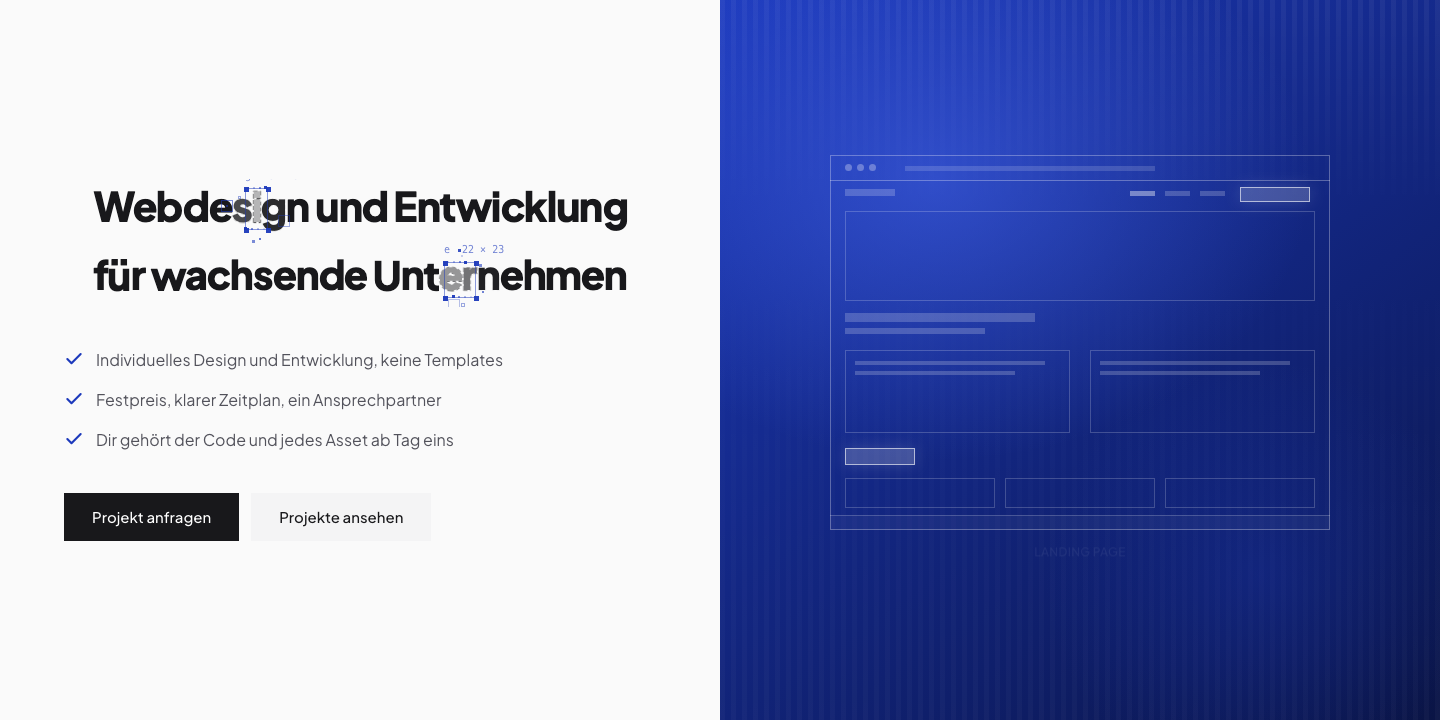
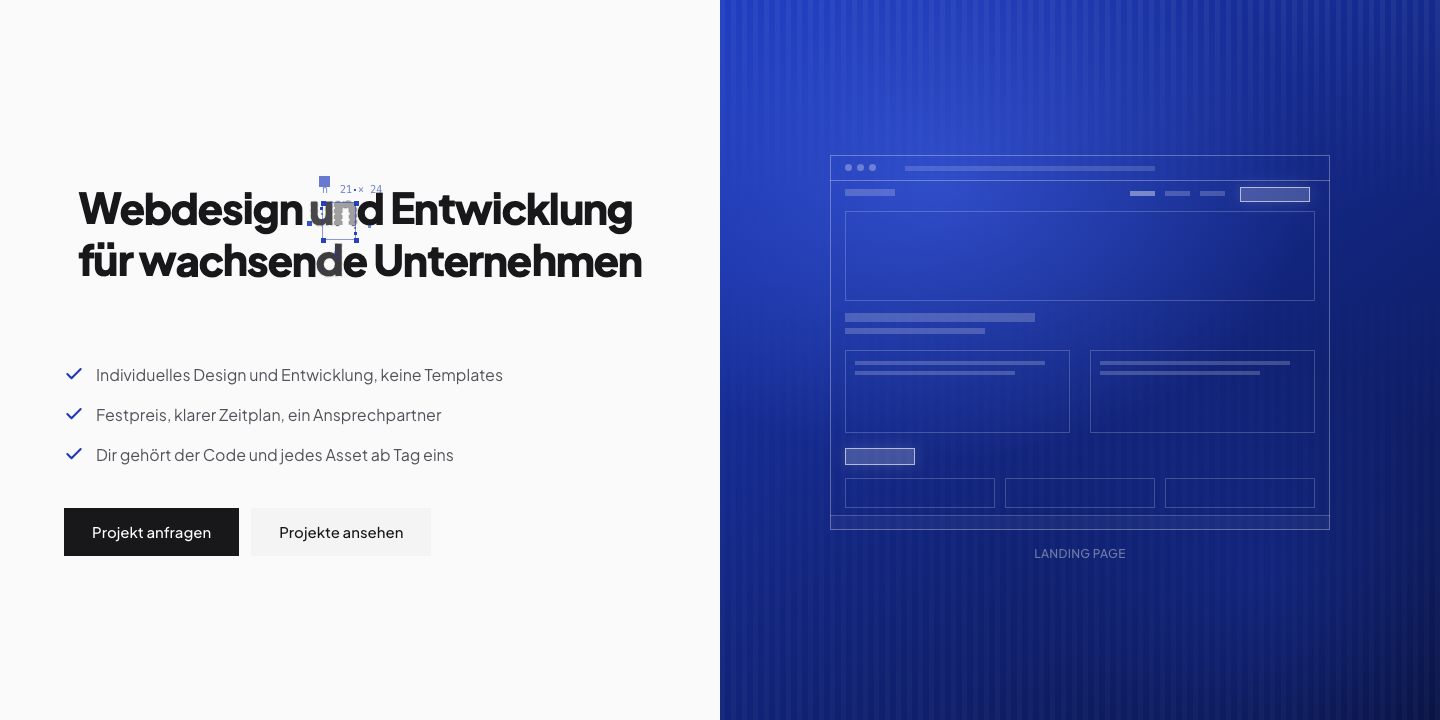
feat: single TechText with multi-line support, cleaner tech grid
TechText:
- Modified ensureLayout to support newline characters
- Splits text on \n, measures each line, stacks vertically
- Left-aligned lines, auto-sized to fit container
- Single sweep moves across both lines naturally
- One canvas, one animation loop, one hover interaction

Hero:
- Single TechText instance with 'line1\nline2' text
- Properly aligned two-line headline
- Removed sweepOffset (no longer needed with single instance)

About:
- Tech stack redesigned: 4x2 icon grid, centered icons with
  small labels below (11px, muted). No gap-px borders.
- Quieter treatment that doesn't compete with body text

diff --git a/components/ui/TechText.tsx b/components/ui/TechText.tsx
@@ -212,19 +212,9 @@ const TechText = ({
 
     const ensureLayout = (s: Settings): Word => {
       const key = [
-        s.text,
-        family(s),
-        s.fontWeight,
-        s.fontSize,
-        s.letterSpacing,
-        s.color,
-        s.dashLength,
-        s.dashGap,
-        s.strokeWidth,
-        s.lineStyle,
-        width,
-        height,
-        dpr
+        s.text, family(s), s.fontWeight, s.fontSize, s.letterSpacing,
+        s.color, s.dashLength, s.dashGap, s.strokeWidth, s.lineStyle,
+        width, height, dpr
       ].join('|');
       if (key === layoutKey && word) return word;
       layoutKey = key;
@@ -235,63 +225,152 @@ const TechText = ({
       }
 
       const probe = scratchCtx;
-      setFont(probe, s, s.fontSize);
-      let m = probe.measureText(s.text);
-      const fit = Math.min(
-        1,
-        (width * 0.9) / Math.max(m.actualBoundingBoxLeft + m.actualBoundingBoxRight, 1),
-        (height * 0.66) / Math.max(m.actualBoundingBoxAscent + m.actualBoundingBoxDescent, 1)
-      );
-      const size = s.fontSize * fit;
-      setFont(probe, s, size);
-      m = probe.measureText(s.text);
-      const inkWidth = m.actualBoundingBoxLeft + m.actualBoundingBoxRight;
-      const inkHeight = m.actualBoundingBoxAscent + m.actualBoundingBoxDescent;
-      const x = (width - inkWidth) / 2 + m.actualBoundingBoxLeft;
-      const baseline = (height - inkHeight) / 2 + m.actualBoundingBoxAscent;
-      const next = {
-        size,
-        baseline,
-        left: x - m.actualBoundingBoxLeft,
-        right: x + m.actualBoundingBoxRight,
-        top: baseline - m.actualBoundingBoxAscent,
-        bottom: baseline + m.actualBoundingBoxDescent
-      };
-      word = next;
+      const lines = s.text.split('\n');
+      const isMultiLine = lines.length > 1;
 
-      const chars = Array.from(s.text);
-      const previous = glyphs;
-      glyphs = [];
-      let prefix = '';
-      chars.forEach((char, i) => {
-        prefix += char;
-        const own = probe.measureText(char);
-        const gx = x + probe.measureText(prefix).width - own.width;
-        if (!char.trim()) return;
-        const base = {
-          char,
-          x: gx,
-          box: {
-            x1: gx - own.actualBoundingBoxLeft,
-            y1: baseline - own.actualBoundingBoxAscent,
-            x2: gx + own.actualBoundingBoxRight,
-            y2: baseline + own.actualBoundingBoxDescent
-          }
+      if (!isMultiLine) {
+        // Original single-line layout
+        setFont(probe, s, s.fontSize);
+        let m = probe.measureText(s.text);
+        const fit = Math.min(
+          1,
+          (width * 0.9) / Math.max(m.actualBoundingBoxLeft + m.actualBoundingBoxRight, 1),
+          (height * 0.66) / Math.max(m.actualBoundingBoxAscent + m.actualBoundingBoxDescent, 1)
+        );
+        const size = s.fontSize * fit;
+        setFont(probe, s, size);
+        m = probe.measureText(s.text);
+        const inkWidth = m.actualBoundingBoxLeft + m.actualBoundingBoxRight;
+        const inkHeight = m.actualBoundingBoxAscent + m.actualBoundingBoxDescent;
+        const x = (width - inkWidth) / 2 + m.actualBoundingBoxLeft;
+        const baseline = (height - inkHeight) / 2 + m.actualBoundingBoxAscent;
+        const next: Word = {
+          size, baseline,
+          left: x - m.actualBoundingBoxLeft,
+          right: x + m.actualBoundingBoxRight,
+          top: baseline - m.actualBoundingBoxAscent,
+          bottom: baseline + m.actualBoundingBoxDescent
         };
-        const kept = previous[glyphs.length];
-        glyphs.push({
-          ...base,
-          offset: kept?.char === char ? kept.offset : { x: 0, y: 0 },
-          velocity: { x: 0, y: 0 },
-          outline: 0,
-          index: i,
-          fill: sprite(s, next, base, false),
-          dashes: sprite(s, next, base, true)
+        word = next;
+
+        const chars = Array.from(s.text);
+        const previous = glyphs;
+        glyphs = [];
+        let prefix = '';
+        chars.forEach((char, i) => {
+          prefix += char;
+          const own = probe.measureText(char);
+          const gx = x + probe.measureText(prefix).width - own.width;
+          if (!char.trim()) return;
+          const base = {
+            char, x: gx,
+            box: {
+              x1: gx - own.actualBoundingBoxLeft, y1: baseline - own.actualBoundingBoxAscent,
+              x2: gx + own.actualBoundingBoxRight, y2: baseline + own.actualBoundingBoxDescent
+            }
+          };
+          const kept = previous[glyphs.length];
+          glyphs.push({
+            ...base,
+            offset: kept?.char === char ? kept.offset : { x: 0, y: 0 },
+            velocity: { x: 0, y: 0 }, outline: 0, index: i,
+            fill: sprite(s, next, base, false),
+            dashes: sprite(s, next, base, true)
+          });
         });
-      });
+      } else {
+        // Multi-line layout: measure each line, stack vertically
+        // Find the widest line to determine font size
+        setFont(probe, s, s.fontSize);
+        let maxInkW = 0;
+        for (const line of lines) {
+          const lm = probe.measureText(line);
+          const lw = lm.actualBoundingBoxLeft + lm.actualBoundingBoxRight;
+          if (lw > maxInkW) maxInkW = lw;
+        }
+        const lineM = probe.measureText(lines[0]);
+        const singleH = lineM.actualBoundingBoxAscent + lineM.actualBoundingBoxDescent;
+        const lineGap = singleH * 0.25;
+        const totalH = singleH * lines.length + lineGap * (lines.length - 1);
+        const fit = Math.min(
+          1,
+          (width * 0.95) / Math.max(maxInkW, 1),
+          (height * 0.85) / Math.max(totalH, 1)
+        );
+        const size = s.fontSize * fit;
+        setFont(probe, s, size);
+
+        // Re-measure at final size
+        const fm = probe.measureText(lines[0]);
+        const lineH = fm.actualBoundingBoxAscent + fm.actualBoundingBoxDescent;
+        const gap = lineH * 0.25;
+        const blockH = lineH * lines.length + gap * (lines.length - 1);
+        const startY = (height - blockH) / 2;
+
+        let globalLeft = Infinity, globalRight = -Infinity;
+        let globalTop = Infinity, globalBottom = -Infinity;
+
+        const previous = glyphs;
+        glyphs = [];
+        let charIndex = 0;
+
+        lines.forEach((line, lineIdx) => {
+          const lm = probe.measureText(line);
+          const inkW = lm.actualBoundingBoxLeft + lm.actualBoundingBoxRight;
+          // Left-align all lines
+          const padLeft = width * 0.025;
+          const lineX = padLeft + lm.actualBoundingBoxLeft;
+          const baseline = startY + lineIdx * (lineH + gap) + fm.actualBoundingBoxAscent;
+
+          const lineLeft = lineX - lm.actualBoundingBoxLeft;
+          const lineRight = lineX + lm.actualBoundingBoxRight;
+          const lineTop = baseline - fm.actualBoundingBoxAscent;
+          const lineBottom = baseline + fm.actualBoundingBoxDescent;
+          if (lineLeft < globalLeft) globalLeft = lineLeft;
+          if (lineRight > globalRight) globalRight = lineRight;
+          if (lineTop < globalTop) globalTop = lineTop;
+          if (lineBottom > globalBottom) globalBottom = lineBottom;
+
+          const chars = Array.from(line);
+          let prefix = '';
+          chars.forEach((char) => {
+            prefix += char;
+            charIndex++;
+            const own = probe.measureText(char);
+            const gx = lineX + probe.measureText(prefix).width - own.width;
+            if (!char.trim()) return;
+            const tempWord: Word = { size, baseline, left: lineLeft, right: lineRight, top: lineTop, bottom: lineBottom };
+            const base = {
+              char, x: gx,
+              box: {
+                x1: gx - own.actualBoundingBoxLeft, y1: baseline - own.actualBoundingBoxAscent,
+                x2: gx + own.actualBoundingBoxRight, y2: baseline + own.actualBoundingBoxDescent
+              }
+            };
+            const kept = previous[glyphs.length];
+            glyphs.push({
+              ...base,
+              offset: kept?.char === char ? kept.offset : { x: 0, y: 0 },
+              velocity: { x: 0, y: 0 }, outline: 0, index: charIndex - 1,
+              fill: sprite(s, tempWord, base, false),
+              dashes: sprite(s, tempWord, base, true)
+            });
+          });
+          // Account for the newline character
+          charIndex++;
+        });
+
+        word = {
+          size,
+          baseline: startY + fm.actualBoundingBoxAscent,
+          left: globalLeft, right: globalRight,
+          top: globalTop, bottom: globalBottom
+        };
+      }
+
       dragging = -1;
       frame.index = -1;
-      return next;
+      return word!;
     };
 
     const glyphAt = (x: number, y: number) => {

diff --git a/components/sections/HeroSection.tsx b/components/sections/HeroSection.tsx
@@ -311,12 +311,7 @@ function AnimatedWireframe() {
 export function HeroSection({ headline, subline }: HeroSectionProps) {
   const t = useTranslations('Hero')
   const headlineText = headline ?? t('headline')
-  const line1 = t('headlineLine1')
-  const line2 = t('headlineLine2')
-
-  // Sweep offset: half a cosine cycle so line 2 starts when line 1 finishes
-  // The sweep uses cos(clock * 0.45), half cycle = PI / 0.45 ~ 7s
-  const LINE2_OFFSET = Math.PI / 0.45
+  const techTextHeadline = `${t('headlineLine1')}\n${t('headlineLine2')}`
 
   return (
     <MotionSection id="hero" className="relative bg-surface-subtle overflow-hidden">
@@ -324,51 +319,27 @@ export function HeroSection({ headline, subline }: HeroSectionProps) {
 
         {/* Left: copy */}
         <div className="flex flex-col justify-center px-6 py-16 md:px-12 lg:px-16 xl:pl-[max(calc((100vw-90rem)/2+4rem),4rem)] xl:pr-16">
-          {/* TechText headline: two lines, sweep cascades from line 1 to line 2 */}
-          <div className="max-w-2xl mb-2" aria-hidden="true">
-            <div className="h-[44px] md:h-[56px] lg:h-[64px]">
-              <TechText
-                text={line1}
-                fontSize={120}
-                fontWeight={800}
-                letterSpacing={-0.03}
-                color="#18181B"
-                accentColor="#1C39BB"
-                reach={160}
-                softness={0.5}
-                strokeWidth={1.2}
-                lineStyle="dashed"
-                reveal="letter"
-                selection={true}
-                labels={true}
-                draggable={false}
-                sweep={true}
-                specks={8}
-                speed={0.6}
-              />
-            </div>
-            <div className="h-[44px] md:h-[56px] lg:h-[64px]">
-              <TechText
-                text={line2}
-                fontSize={120}
-                fontWeight={800}
-                letterSpacing={-0.03}
-                color="#18181B"
-                accentColor="#1C39BB"
-                reach={160}
-                softness={0.5}
-                strokeWidth={1.2}
-                lineStyle="dashed"
-                reveal="letter"
-                selection={true}
-                labels={true}
-                draggable={false}
-                sweep={true}
-                sweepOffset={LINE2_OFFSET}
-                specks={8}
-                speed={0.6}
-              />
-            </div>
+          {/* TechText headline: single canvas, two lines, one sweep */}
+          <div className="h-[100px] md:h-[130px] lg:h-[150px] max-w-2xl mb-4" aria-hidden="true">
+            <TechText
+              text={techTextHeadline}
+              fontSize={120}
+              fontWeight={800}
+              letterSpacing={-0.03}
+              color="#18181B"
+              accentColor="#1C39BB"
+              reach={160}
+              softness={0.5}
+              strokeWidth={1.2}
+              lineStyle="dashed"
+              reveal="letter"
+              selection={true}
+              labels={true}
+              draggable={false}
+              sweep={true}
+              specks={8}
+              speed={0.6}
+            />
           </div>
           {/* Hidden h1 for SEO */}
           <h1 className="sr-only">{headlineText}</h1>

diff --git a/components/sections/AboutSection.tsx b/components/sections/AboutSection.tsx
@@ -124,17 +124,16 @@ export function AboutSection({ settings, aboutPhotoUrl }: AboutSectionProps) {
             </p>
           </div>
 
-          {/* Right: tech stack logo grid */}
-          <div className="w-full lg:w-[320px]">
-            <p className="text-sm text-muted-on-dark mb-6">Tech Stack</p>
-            <div className="grid grid-cols-2 gap-px bg-muted-on-dark/15">
+          {/* Right: tech stack */}
+          <div className="w-full lg:w-[280px]">
+            <div className="grid grid-cols-4 gap-8 lg:gap-6">
               {TECH_STACK.map((tech) => (
                 <div
                   key={tech.name}
-                  className="bg-surface-dark p-4 flex items-center gap-3"
+                  className="flex flex-col items-center gap-2"
                 >
-                  <span className="text-muted-on-dark">{tech.icon}</span>
-                  <span className="text-sm text-on-dark">{tech.name}</span>
+                  <span className="text-muted-on-dark/60">{tech.icon}</span>
+                  <span className="text-[11px] text-muted-on-dark/50">{tech.name}</span>
                 </div>
               ))}
             </div>
